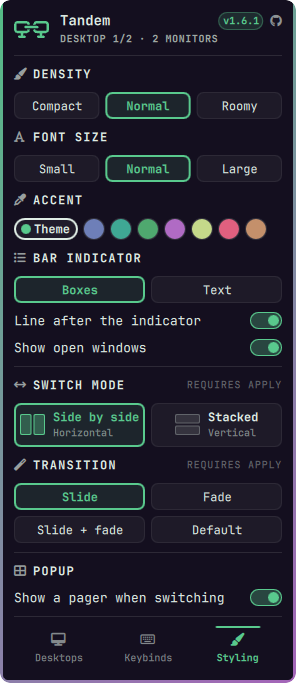
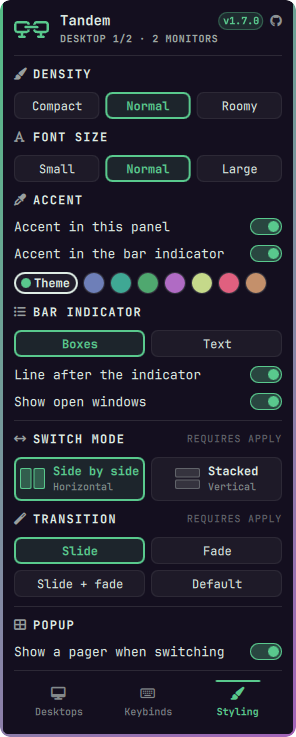
Retake the screenshots for 1.7.0

diff --git a/README.md b/README.md
@@ -74,7 +74,7 @@ One key answer gives both binds: `F` becomes `SUPER + F` to switch and
 <p>
   <img src="assets/panel-desktops.png" alt="The Desktops page: the desktop count, a named row per desktop with app icons for its open windows and the workspaces it owns, and the monitors drawn to scale" width="250">
   <img src="assets/panel-keybinds.png" alt="The Keybinds page: the switch and send keys as key caps, switches for the extra binds, and the setup wizard" width="250">
-  <img src="assets/panel-styling.png" alt="The Styling page: density, font size, bar indicator, switch mode, transition and the pager popup" width="250">
+  <img src="assets/panel-styling.png" alt="The Styling page: density, font size, accent switches and colours, bar indicator, switch mode, transition and the pager popup" width="250">
 </p>
 
 The **panel** (two-monitor icon, right of the bar) has three pages, switched
